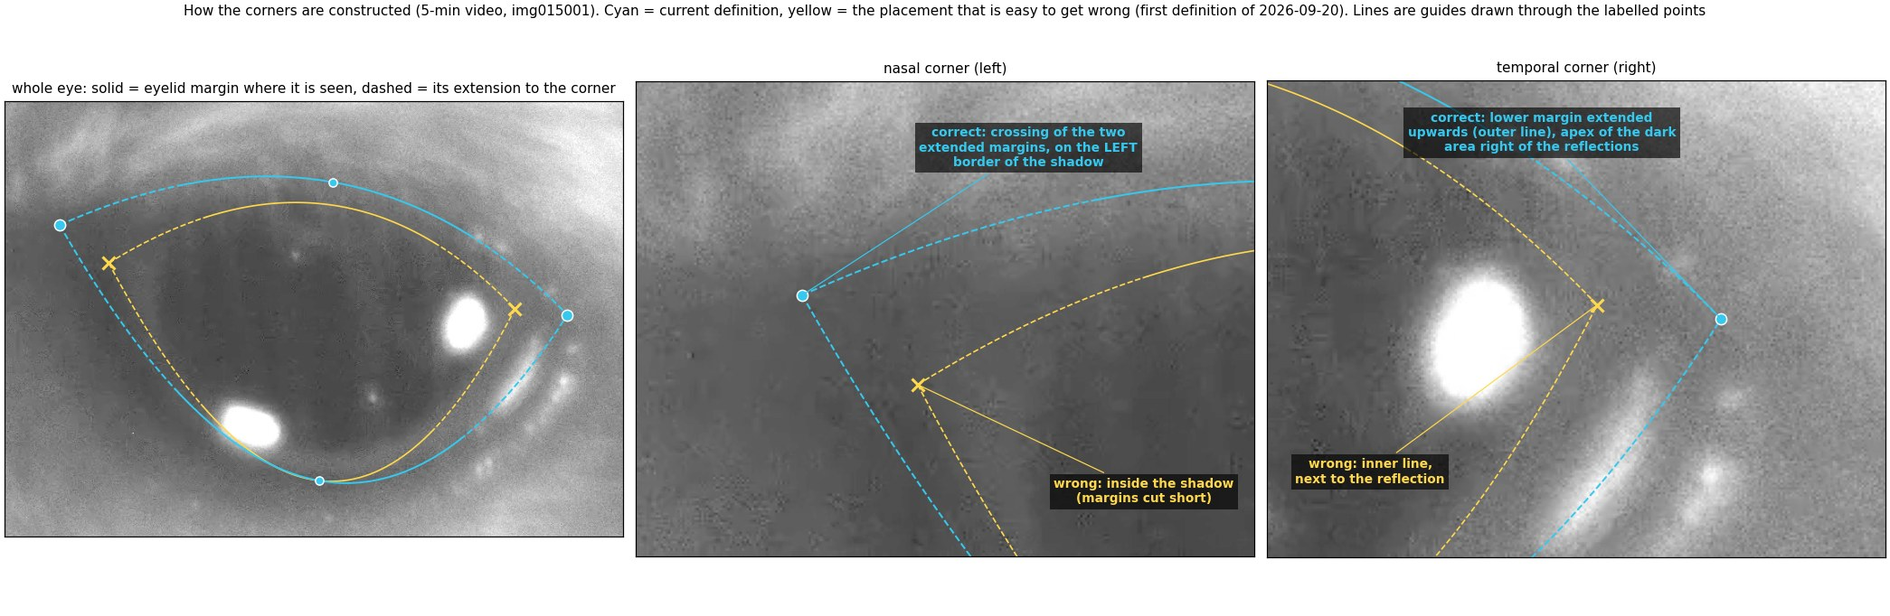
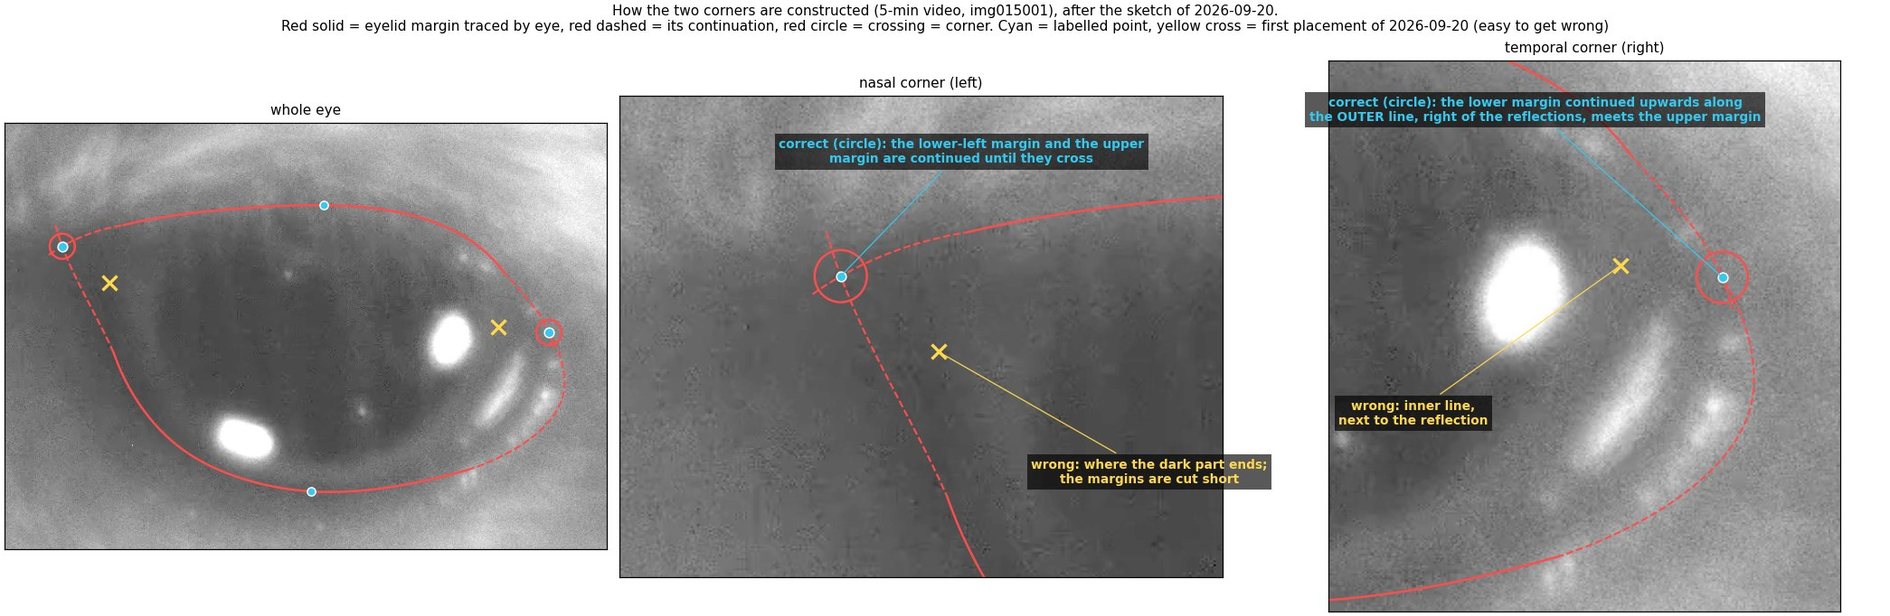
Keypoint definitions: corner construction figure redrawn after the 2026-09-20 sketch; summary page step 8 now gives the definitions, example figures and the measured shifts (corners and upper eyelid also moved on 2026-09-20)
Claude-Session: https://claude.ai/code/session_017MK5SWBFFQAu8ejFk1z7fh

diff --git a/report/index.html b/report/index.html
@@ -66,7 +66,7 @@ code{font-family:var(--mono);font-size:.9em}
 
 <header>
   <h1><span lang="zh">小鼠眼睛关键点追踪：做了什么，结果是什么</span><span lang="en">Mouse eye keypoint tracking: what was done and what came out</span></h1>
-  <p class="muted small">Zhiheng Li (University of Minnesota), Kaiwen Sheng (Stanford) · <span lang="zh">页面生成时间</span><span lang="en">page built</span> 2026-10-03 22:51 · <a href="https://github.com/ZhihengLi0/mouse-behavior-tracking">GitHub: ZhihengLi0/mouse-behavior-tracking</a></p>
+  <p class="muted small">Zhiheng Li (University of Minnesota), Kaiwen Sheng (Stanford) · <span lang="zh">页面生成时间</span><span lang="en">page built</span> 2026-10-03 23:24 · <a href="https://github.com/ZhihengLi0/mouse-behavior-tracking">GitHub: ZhihengLi0/mouse-behavior-tracking</a></p>
 
   <div class="text" lang="zh">
     <p><b>任务：</b>用 DeepLabCut 在小鼠眼睛视频的每一帧上找 8 个点：瞳孔上、下、左、右，上眼睑、下眼睑，鼻侧眼角、颞侧眼角。由这 8 个点得到瞳孔大小、眼睛睁开程度和眨眼，之后与脑记录对齐。</p>
@@ -83,7 +83,7 @@ code{font-family:var(--mono);font-size:.9em}
       <li><b>瞳孔面积怎么算？</b>在这个标准下上点落在眼睑边上，所以只用左、右、下三个点（第 6 步）。</li>
     </ol>
     <h3>中间的逻辑：为什么换了标准还沿用 ResNet-50 和 batch 2</h3>
-    <p>9 月 20 日起明确了瞳孔四个点的标法：把瞳孔看成椭圆，四个点是椭圆的四个端点。定义真正改变的只有瞳孔上点：从“看得见的瞳孔的最高处”改为“椭圆真实的最高点”。瞳孔下、左、右三个点原来就标在瞳孔边缘，这次只是明确为椭圆的端点；实际位置有小的调整（旧标注里左点比右点高约 32 px，新标法下左右两点在椭圆的同一条轴上）。上眼睑、下眼睑、鼻侧眼角、颞侧眼角的标法没有变。图像、任务和训练方式也都没有变。batch size 和模型的选择取决于图像和训练方式，不取决于瞳孔上点标在哪里，所以我们认为这两项选择不受影响，继续使用 ResNet-50 和 batch 2。这是一个判断，没有在新标准下重新比较过 batch size 和模型。</p>
+    <p>9 月 20 日起明确了瞳孔四个点的标法：把瞳孔看成椭圆，四个点是椭圆的四个端点。定义真正改变的只有瞳孔上点：从“看得见的瞳孔的最高处”改为“椭圆真实的最高点”。瞳孔下、左、右三个点原来就标在瞳孔边缘，这次明确为椭圆的端点，位置移动约 14 px。同一天还明确了两个眼角的标法（上下睑缘延长线的交点，取外侧），两个眼角向外移动 40–56 px，上眼睑点随之上移约 17 px，下眼睑点不变。详见第 8 步。图像、任务和训练方式都没有变。batch size 和模型的选择取决于图像和训练方式，不取决于点标在哪里，所以我们认为这两项选择不受影响，继续使用 ResNet-50 和 batch 2。这是一个判断，没有在新标准下重新比较过 batch size 和模型。</p>
     <h3>第二阶段的结论（第 8–12 步）</h3>
     <p>前提：把瞳孔看成椭圆，上点标在椭圆真实的最高点；被眼睑挡住时，由标注的人按椭圆估计它的位置。</p>
     <ol>
@@ -111,7 +111,7 @@ code{font-family:var(--mono);font-size:.9em}
       <li><b>How to compute the pupil area?</b> Under this standard the top point sits on the lid, so only left, right and bottom are used (step 6).</li>
     </ol>
     <h3>The logic in between: why ResNet-50 and batch 2 were kept after the standard changed</h3>
-    <p>From 2026-09-20 the way the four pupil points are labeled was made explicit: the pupil is treated as an ellipse and the four points are its four endpoints. Only the definition of pupil top really changed: from "the highest point of the visible pupil" to "the true top of the ellipse". Pupil bottom, left and right were already placed on the pupil edge and were only made explicit as ellipse endpoints; their positions were adjusted slightly (in the old labels the left point sat about 32 px higher than the right one; now both lie on the same axis of the ellipse). The labeling of the upper eyelid, lower eyelid, nasal corner and temporal corner did not change. The images, the task and the training procedure did not change either. The choice of batch size and model depends on the images and the training procedure, not on where the pupil-top point is placed, so we consider both choices unaffected and keep ResNet-50 with batch 2. This is a judgment; batch size and model were not compared again under the new standard.</p>
+    <p>From 2026-09-20 the way the four pupil points are labeled was made explicit: the pupil is treated as an ellipse and the four points are its four endpoints. Only the definition of pupil top really changed: from "the highest point of the visible pupil" to "the true top of the ellipse". Pupil bottom, left and right were already placed on the pupil edge and were made explicit as ellipse endpoints, moving by about 14 px. On the same day the placement of the two corners was made explicit as well (the crossing of the continued upper and lower eyelid margins, on the outer side): the corners moved outwards by 40–56 px, the upper-eyelid point moved up by about 17 px with them, and the lower-eyelid point did not move. Details in step 8. The images, the task and the training procedure did not change. The choice of batch size and model depends on the images and the training procedure, not on where the points are placed, so we consider both choices unaffected and keep ResNet-50 with batch 2. This is a judgment; batch size and model were not compared again under the new standard.</p>
     <h3>Conclusions of phase 2 (steps 8–12)</h3>
     <p>Premise: the pupil is treated as an ellipse and pupil top is placed at the true top of that ellipse; where the eyelid hides it, the labeler estimates its position from the ellipse.</p>
     <ol>
@@ -144,7 +144,7 @@ code{font-family:var(--mono);font-size:.9em}
       <li><a href="#s5"><span lang="zh">时间序列：眨眼、眼动、追踪丢失</span><span lang="en">Time series: blinks, eye movements, tracking loss</span></a></li>
       <li><a href="#s6"><span lang="zh">瞳孔面积怎么算（旧标注标准）</span><span lang="en">Pupil area (old label standard)</span></a></li>
       <li><a href="#s7"><span lang="zh">换一只新老鼠</span><span lang="en">A new mouse</span></a></li>
-      <li><a href="#s8"><span lang="zh">新标注标准：瞳孔按椭圆标</span><span lang="en">New label standard: the pupil as an ellipse</span></a></li>
+      <li><a href="#s8"><span lang="zh">点位定义的明确：瞳孔按椭圆标，眼角取延长线交点</span><span lang="en">Keypoint definitions made explicit</span></a></li>
       <li><a href="#s9"><span lang="zh">主线：每个新视频要标多少帧</span><span lang="en">Main line: labels needed per new video</span></a></li>
       <li><a href="#s10"><span lang="zh">只标 5 帧或 10 帧够不够</span><span lang="en">Are 5 or 10 labels enough</span></a></li>
       <li><a href="#s11"><span lang="zh">加入新视频会不会让旧视频变差</span><span lang="en">Do new videos hurt old ones</span></a></li>
@@ -274,16 +274,63 @@ code{font-family:var(--mono);font-size:.9em}
 
 <!-- 8 -->
 <section id="s8">
-  <h2><span class="no">8</span><span lang="zh">新标注标准（9 月 20 日起）：瞳孔按椭圆标</span><span lang="en">New label standard (from 2026-09-20): the pupil as an ellipse</span></h2>
-  <p class="text" lang="zh"><span class="tag">做了什么：</span>明确了瞳孔四个点的标法：把瞳孔看成一个椭圆，上、下、左、右四个点是椭圆的四个端点；被眼睑挡住的部分按椭圆补全，点标在推断出的位置上。定义改变的只有上点（原来标在看得见的瞳孔的最高处）；下、左、右三个点只是明确为椭圆端点；眼睑和眼角的四个点标法不变。9 月 26 日补充一条约定：瞳孔边缘出现两层轮廓时，标左边那层；黑色核心外面的一圈亮带算作瞳孔。之前的全部视频按新标准重新标注，从这一步起所有模型和数字都是新标准。</p>
-  <p class="text" lang="en"><span class="tag">What was done:</span>The labeling of the four pupil points was made explicit: the pupil is treated as an ellipse and top, bottom, left, right are its four endpoints; where the lid hides the pupil, the ellipse is completed and the point is placed at the inferred position. Only the definition of the top point changed (it used to be the highest point of the visible pupil); bottom, left and right were only made explicit as ellipse endpoints; the four eyelid and corner points are labeled as before. A convention added on 2026-09-26: where the pupil edge shows a double contour, the left one is labeled, and the bright band around the dark core counts as pupil. All earlier videos were relabeled; from here on every model and number uses the new standard.</p>
+  <h2><span class="no">8</span><span lang="zh">点位定义的明确（9 月 20 日起）：瞳孔按椭圆标，眼角取睑缘延长线的交点</span><span lang="en">Keypoint definitions made explicit (from 2026-09-20): pupil as an ellipse, corners at the crossing of the eyelid margins</span></h2>
+  <div class="text" lang="zh">
+    <p><span class="tag">做了什么：</span>把 8 个点各自标在哪里写清楚，并按新的写法把之前的视频全部重新标注。从这一步起所有模型和数字都用这套定义。完整的定义、例图和容易标错的地方在仓库的 <code>keypoint_definitions/</code> 文件夹里。</p>
+    <ul>
+      <li><b>瞳孔上、下、左、右：</b>把瞳孔看作一个椭圆，四个点是椭圆两条轴的四个端点。被上眼睑或毛挡住的部分按椭圆补全，所以上点常常在眼睑下面。瞳孔边界取变暗区域的外缘；边界出现两层轮廓时取左边那层（9 月 26 日）；黑色核心外面较亮的一圈也算瞳孔（9 月 29 日）。</li>
+      <li><b>上眼睑、下眼睑：</b>眼皮和眼球的分界线叫睑缘。上眼睑点是上睑缘的中点，下眼睑点是下睑缘的中点。眨眼时也要标。</li>
+      <li><b>左眼角（鼻侧，内眦）：</b>把左下方的睑缘和上睑缘各自延长，取两条延长线的交点；延长线取外侧、没有阴影的那条边。</li>
+      <li><b>右眼角（颞侧，外眦）：</b>右侧有几条反光亮带。把下睑缘沿外层那条线向上延伸，与上睑缘相交的点就是眼角，它在反光的右侧。不标在反光上，也不标在紧挨反光的内层线上。</li>
+    </ul>
+  </div>
+  <div class="text" lang="en">
+    <p><span class="tag">What was done:</span>Where each of the 8 points is placed was written down, and all earlier videos were relabeled accordingly. From this step on every model and number uses these definitions. The full definitions, example figures and the common mistakes are in the folder <code>keypoint_definitions/</code> of the repository.</p>
+    <ul>
+      <li><b>Pupil top, bottom, left, right:</b> the pupil is treated as an ellipse and the four points are the ends of its two axes. Parts hidden by the upper eyelid or by fur are completed with the ellipse, so the top point often lies under the eyelid. The pupil boundary is the outer edge of the darkened region; where the edge looks doubled the left contour is used (2026-09-26); the brighter band around the dark core counts as pupil (2026-09-29).</li>
+      <li><b>Upper and lower eyelid:</b> the line between the eyelid skin and the eyeball is the eyelid margin. The upper-eyelid point is the midpoint of the upper margin, the lower-eyelid point the midpoint of the lower margin. Both are labeled during blinks too.</li>
+      <li><b>Left corner (nasal, medial canthus):</b> the lower-left margin and the upper margin are each continued, and the corner is where the two continuations cross; the continuation follows the outer edge, the one without the shadow.</li>
+      <li><b>Right corner (temporal, lateral canthus):</b> there are several bright reflections on this side. The lower margin is continued upwards along the outer line until it meets the upper margin; that point is the corner, and it lies to the right of the reflections. It is not placed on a reflection or on the inner line next to it.</li>
+    </ul>
+  </div>
   <figure>
-    <div class="figbox narrow"><img src="assets/label_standard.jpg" alt="One labeled frame under the new standard"></div>
-    <figcaption lang="zh"><span class="tag">怎么看：</span>一帧人工标注。红点是瞳孔的四个点，红线是过这四个点的椭圆；蓝点是上下眼睑和两个眼角。</figcaption>
-    <figcaption lang="en"><span class="tag">How to read:</span>One human-labeled frame. Red dots are the four pupil points and the red line is the ellipse through them; blue dots are the two eyelids and the two eye corners.</figcaption>
+    <div class="figbox"><img src="assets/kp_all_keypoints.jpg" alt="All eight keypoints on three mice"></div>
+    <figcaption lang="zh"><span class="tag">怎么看：</span>三只老鼠各一帧人工标注。红点是瞳孔的四个点，红线是过这四个点的椭圆；青色点是上下眼睑和两个眼角。图像为了看清做了提亮。</figcaption>
+    <figcaption lang="en"><span class="tag">How to read:</span>One human-labeled frame of each of the three mice. Red dots are the four pupil points and the red line is the ellipse through them; cyan dots are the two eyelid points and the two corners. The frames are brightened for display.</figcaption>
   </figure>
-  <p class="concl" lang="zh"><span class="tag">结论：</span>新标准下四个点都有明确的几何含义，面积可以直接由四个点算出。模型和 batch size 沿用第 2、3 步的选择（ResNet-50，batch 2）：改的只是点标在哪里，图像和训练方式没有变，所以没有重新比较。旧标准（第 1–7 步）的误差数字不能和新标准（第 9 步起）的数字直接比较。</p>
-  <p class="concl" lang="en"><span class="tag">Conclusion:</span>Under the new standard all four points have a clear geometric meaning and the area follows directly from them. Model and batch size are carried over from steps 2 and 3 (ResNet-50, batch 2): only where the points are placed changed, not the images or the training procedure, so they were not compared again. Error numbers under the old standard (steps 1–7) cannot be compared directly with those under the new one (from step 9).</p>
+  <figure>
+    <div class="figbox"><img src="assets/kp_construction_pupil.jpg" alt="How the pupil points are constructed"></div>
+    <figcaption lang="zh"><span class="tag">怎么看：</span>瞳孔四个点怎么来。红色椭圆盖住整个瞳孔，红色虚线是它的两条轴，四个点是轴的端点。黄色叉和黄色虚线是 9 月 20 日之前的标法：沿着看得见的瞳孔边缘标，上点停在眼睑边上。</figcaption>
+    <figcaption lang="en"><span class="tag">How to read:</span>How the four pupil points are obtained. The red ellipse covers the whole pupil, the dashed red lines are its two axes, and the four points are the ends of the axes. Yellow crosses and the dashed yellow outline show the placement before 2026-09-20: along the visible pupil edge, with the top point stopping at the eyelid.</figcaption>
+  </figure>
+  <figure>
+    <div class="figbox"><img src="assets/kp_construction_corners.jpg" alt="How the two corners are constructed"></div>
+    <figcaption lang="zh"><span class="tag">怎么看：</span>两个眼角怎么来，画法照 9 月 20 日讨论时的手绘图。红色实线是沿图像描出的睑缘，红色虚线是它的延长线，红圈是交点，也就是眼角；青色点是实际标注的位置。黄色叉是当天第一次的标法，也是容易标错的位置：左边标在深色部分结束的地方，右边标在紧挨反光的内层线上。</figcaption>
+    <figcaption lang="en"><span class="tag">How to read:</span>How the two corners are obtained, drawn after the hand sketch used in the discussion of 2026-09-20. Solid red = eyelid margin traced on the image, dashed red = its continuation, red circle = the crossing, which is the corner; cyan = the labeled point. Yellow crosses are the first placement of that day and the easy mistake: on the left, where the dark part ends; on the right, on the inner line next to the reflection.</figcaption>
+  </figure>
+  <p class="text" lang="zh">定义明确前后，同一批帧上各个点移动了多少（<code>keypoint_definitions/results/label_changes.csv</code>）：</p>
+  <p class="text" lang="en">How far each point moved on the same frames when the definitions were made explicit (<code>keypoint_definitions/results/label_changes.csv</code>):</p>
+  <div class="tablebox">
+    <table>
+      <thead><tr>
+        <th><span lang="zh">点</span><span lang="en">point</span></th>
+        <th><span lang="zh">位移中位数</span><span lang="en">median shift</span></th>
+        <th><span lang="zh">性质</span><span lang="en">what happened</span></th>
+      </tr></thead>
+      <tbody>
+        <tr><td><span lang="zh">瞳孔上点</span><span lang="en">pupil top</span></td><td>52 px</td><td><span lang="zh">定义改变：从看得见的瞳孔的最高处，改为椭圆的顶端</span><span lang="en">definition changed: from the top of the visible pupil to the top of the ellipse</span></td></tr>
+        <tr><td><span lang="zh">瞳孔下、左、右</span><span lang="en">pupil bottom, left, right</span></td><td><span lang="zh">约 14 px</span><span lang="en">about 14 px</span></td><td><span lang="zh">明确为椭圆轴的端点</span><span lang="en">made explicit as the ends of the ellipse axes</span></td></tr>
+        <tr><td><span lang="zh">左眼角</span><span lang="en">left (nasal) corner</span></td><td>40 px</td><td><span lang="zh">明确为两条睑缘延长线的交点，向外移</span><span lang="en">made explicit as the crossing of the two continued margins; moved outwards</span></td></tr>
+        <tr><td><span lang="zh">右眼角</span><span lang="en">right (temporal) corner</span></td><td>56 px</td><td><span lang="zh">明确为外层线上的交点，向外移</span><span lang="en">made explicit as the crossing on the outer line; moved outwards</span></td></tr>
+        <tr><td><span lang="zh">上眼睑点</span><span lang="en">upper eyelid</span></td><td>17 px</td><td><span lang="zh">随眼角的明确上移到睑缘（90 帧里 62 帧有移动）</span><span lang="en">moved up onto the margin together with the corners (62 of 90 frames moved)</span></td></tr>
+        <tr><td><span lang="zh">下眼睑点</span><span lang="en">lower eyelid</span></td><td>0 px</td><td><span lang="zh">不变</span><span lang="en">unchanged</span></td></tr>
+      </tbody>
+    </table>
+  </div>
+  <p class="text small muted" lang="zh">瞳孔四个点的数字来自 Pluto 2025-10-31 的 40 帧（旧标法对椭圆标法）；眼角和眼睑的数字来自 5 分钟视频的 90 帧（当天第一次的眼角标法对最终标法）。9 月 26 日“两层轮廓取左边”只让瞳孔点移动几个像素；9 月 29 日的亮带裁定没有改任何标注。</p>
+  <p class="text small muted" lang="en">The numbers for the four pupil points come from 40 frames of Pluto 2025-10-31 (old placement vs ellipse placement); those for the corners and eyelids from 90 frames of the 5-minute video (first corner placement of that day vs the final one). The 2026-09-26 convention (left contour) moved pupil points by a few pixels only; the 2026-09-29 decision on the bright band changed no labels.</p>
+  <p class="concl" lang="zh"><span class="tag">结论：</span>定义真正改变的是瞳孔上点；其余的点是把标法明确下来，其中两个眼角的位置变化最大。眼睑和眼角的四个点只用来判断眨眼，所以选每一帧都找得到的稳定位置。模型和 batch size 沿用第 2、3 步的选择（ResNet-50，batch 2）：变的是点标在哪里，图像和训练方式没有变，所以没有重新比较。第 1–7 步的误差数字不能和第 9 步起的数字直接比较。</p>
+  <p class="concl" lang="en"><span class="tag">Conclusion:</span>The definition that really changed is pupil top; for the other points the placement was made explicit, and the two corners moved the most. The four eyelid and corner points only serve to detect blinks, so a stable position that can be found in every frame is preferred. Model and batch size are carried over from steps 2 and 3 (ResNet-50, batch 2): where the points are placed changed, the images and the training procedure did not, so they were not compared again. Error numbers of steps 1–7 cannot be compared directly with those from step 9 on.</p>
 </section>
 
 <!-- 9 -->

diff --git a/report/template.html b/report/template.html
@@ -83,7 +83,7 @@ code{font-family:var(--mono);font-size:.9em}
       <li><b>瞳孔面积怎么算？</b>在这个标准下上点落在眼睑边上，所以只用左、右、下三个点（第 6 步）。</li>
     </ol>
     <h3>中间的逻辑：为什么换了标准还沿用 ResNet-50 和 batch 2</h3>
-    <p>9 月 20 日起明确了瞳孔四个点的标法：把瞳孔看成椭圆，四个点是椭圆的四个端点。定义真正改变的只有瞳孔上点：从“看得见的瞳孔的最高处”改为“椭圆真实的最高点”。瞳孔下、左、右三个点原来就标在瞳孔边缘，这次只是明确为椭圆的端点；实际位置有小的调整（旧标注里左点比右点高约 32 px，新标法下左右两点在椭圆的同一条轴上）。上眼睑、下眼睑、鼻侧眼角、颞侧眼角的标法没有变。图像、任务和训练方式也都没有变。batch size 和模型的选择取决于图像和训练方式，不取决于瞳孔上点标在哪里，所以我们认为这两项选择不受影响，继续使用 ResNet-50 和 batch 2。这是一个判断，没有在新标准下重新比较过 batch size 和模型。</p>
+    <p>9 月 20 日起明确了瞳孔四个点的标法：把瞳孔看成椭圆，四个点是椭圆的四个端点。定义真正改变的只有瞳孔上点：从“看得见的瞳孔的最高处”改为“椭圆真实的最高点”。瞳孔下、左、右三个点原来就标在瞳孔边缘，这次明确为椭圆的端点，位置移动约 14 px。同一天还明确了两个眼角的标法（上下睑缘延长线的交点，取外侧），两个眼角向外移动 40–56 px，上眼睑点随之上移约 17 px，下眼睑点不变。详见第 8 步。图像、任务和训练方式都没有变。batch size 和模型的选择取决于图像和训练方式，不取决于点标在哪里，所以我们认为这两项选择不受影响，继续使用 ResNet-50 和 batch 2。这是一个判断，没有在新标准下重新比较过 batch size 和模型。</p>
     <h3>第二阶段的结论（第 8–12 步）</h3>
     <p>前提：把瞳孔看成椭圆，上点标在椭圆真实的最高点；被眼睑挡住时，由标注的人按椭圆估计它的位置。</p>
     <ol>
@@ -111,7 +111,7 @@ code{font-family:var(--mono);font-size:.9em}
       <li><b>How to compute the pupil area?</b> Under this standard the top point sits on the lid, so only left, right and bottom are used (step 6).</li>
     </ol>
     <h3>The logic in between: why ResNet-50 and batch 2 were kept after the standard changed</h3>
-    <p>From 2026-09-20 the way the four pupil points are labeled was made explicit: the pupil is treated as an ellipse and the four points are its four endpoints. Only the definition of pupil top really changed: from "the highest point of the visible pupil" to "the true top of the ellipse". Pupil bottom, left and right were already placed on the pupil edge and were only made explicit as ellipse endpoints; their positions were adjusted slightly (in the old labels the left point sat about 32 px higher than the right one; now both lie on the same axis of the ellipse). The labeling of the upper eyelid, lower eyelid, nasal corner and temporal corner did not change. The images, the task and the training procedure did not change either. The choice of batch size and model depends on the images and the training procedure, not on where the pupil-top point is placed, so we consider both choices unaffected and keep ResNet-50 with batch 2. This is a judgment; batch size and model were not compared again under the new standard.</p>
+    <p>From 2026-09-20 the way the four pupil points are labeled was made explicit: the pupil is treated as an ellipse and the four points are its four endpoints. Only the definition of pupil top really changed: from "the highest point of the visible pupil" to "the true top of the ellipse". Pupil bottom, left and right were already placed on the pupil edge and were made explicit as ellipse endpoints, moving by about 14 px. On the same day the placement of the two corners was made explicit as well (the crossing of the continued upper and lower eyelid margins, on the outer side): the corners moved outwards by 40–56 px, the upper-eyelid point moved up by about 17 px with them, and the lower-eyelid point did not move. Details in step 8. The images, the task and the training procedure did not change. The choice of batch size and model depends on the images and the training procedure, not on where the points are placed, so we consider both choices unaffected and keep ResNet-50 with batch 2. This is a judgment; batch size and model were not compared again under the new standard.</p>
     <h3>Conclusions of phase 2 (steps 8–12)</h3>
     <p>Premise: the pupil is treated as an ellipse and pupil top is placed at the true top of that ellipse; where the eyelid hides it, the labeler estimates its position from the ellipse.</p>
     <ol>
@@ -144,7 +144,7 @@ code{font-family:var(--mono);font-size:.9em}
       <li><a href="#s5"><span lang="zh">时间序列：眨眼、眼动、追踪丢失</span><span lang="en">Time series: blinks, eye movements, tracking loss</span></a></li>
       <li><a href="#s6"><span lang="zh">瞳孔面积怎么算（旧标注标准）</span><span lang="en">Pupil area (old label standard)</span></a></li>
       <li><a href="#s7"><span lang="zh">换一只新老鼠</span><span lang="en">A new mouse</span></a></li>
-      <li><a href="#s8"><span lang="zh">新标注标准：瞳孔按椭圆标</span><span lang="en">New label standard: the pupil as an ellipse</span></a></li>
+      <li><a href="#s8"><span lang="zh">点位定义的明确：瞳孔按椭圆标，眼角取延长线交点</span><span lang="en">Keypoint definitions made explicit</span></a></li>
       <li><a href="#s9"><span lang="zh">主线：每个新视频要标多少帧</span><span lang="en">Main line: labels needed per new video</span></a></li>
       <li><a href="#s10"><span lang="zh">只标 5 帧或 10 帧够不够</span><span lang="en">Are 5 or 10 labels enough</span></a></li>
       <li><a href="#s11"><span lang="zh">加入新视频会不会让旧视频变差</span><span lang="en">Do new videos hurt old ones</span></a></li>
@@ -274,16 +274,63 @@ code{font-family:var(--mono);font-size:.9em}
 
 <!-- 8 -->
 <section id="s8">
-  <h2><span class="no">8</span><span lang="zh">新标注标准（9 月 20 日起）：瞳孔按椭圆标</span><span lang="en">New label standard (from 2026-09-20): the pupil as an ellipse</span></h2>
-  <p class="text" lang="zh"><span class="tag">做了什么：</span>明确了瞳孔四个点的标法：把瞳孔看成一个椭圆，上、下、左、右四个点是椭圆的四个端点；被眼睑挡住的部分按椭圆补全，点标在推断出的位置上。定义改变的只有上点（原来标在看得见的瞳孔的最高处）；下、左、右三个点只是明确为椭圆端点；眼睑和眼角的四个点标法不变。9 月 26 日补充一条约定：瞳孔边缘出现两层轮廓时，标左边那层；黑色核心外面的一圈亮带算作瞳孔。之前的全部视频按新标准重新标注，从这一步起所有模型和数字都是新标准。</p>
-  <p class="text" lang="en"><span class="tag">What was done:</span>The labeling of the four pupil points was made explicit: the pupil is treated as an ellipse and top, bottom, left, right are its four endpoints; where the lid hides the pupil, the ellipse is completed and the point is placed at the inferred position. Only the definition of the top point changed (it used to be the highest point of the visible pupil); bottom, left and right were only made explicit as ellipse endpoints; the four eyelid and corner points are labeled as before. A convention added on 2026-09-26: where the pupil edge shows a double contour, the left one is labeled, and the bright band around the dark core counts as pupil. All earlier videos were relabeled; from here on every model and number uses the new standard.</p>
+  <h2><span class="no">8</span><span lang="zh">点位定义的明确（9 月 20 日起）：瞳孔按椭圆标，眼角取睑缘延长线的交点</span><span lang="en">Keypoint definitions made explicit (from 2026-09-20): pupil as an ellipse, corners at the crossing of the eyelid margins</span></h2>
+  <div class="text" lang="zh">
+    <p><span class="tag">做了什么：</span>把 8 个点各自标在哪里写清楚，并按新的写法把之前的视频全部重新标注。从这一步起所有模型和数字都用这套定义。完整的定义、例图和容易标错的地方在仓库的 <code>keypoint_definitions/</code> 文件夹里。</p>
+    <ul>
+      <li><b>瞳孔上、下、左、右：</b>把瞳孔看作一个椭圆，四个点是椭圆两条轴的四个端点。被上眼睑或毛挡住的部分按椭圆补全，所以上点常常在眼睑下面。瞳孔边界取变暗区域的外缘；边界出现两层轮廓时取左边那层（9 月 26 日）；黑色核心外面较亮的一圈也算瞳孔（9 月 29 日）。</li>
+      <li><b>上眼睑、下眼睑：</b>眼皮和眼球的分界线叫睑缘。上眼睑点是上睑缘的中点，下眼睑点是下睑缘的中点。眨眼时也要标。</li>
+      <li><b>左眼角（鼻侧，内眦）：</b>把左下方的睑缘和上睑缘各自延长，取两条延长线的交点；延长线取外侧、没有阴影的那条边。</li>
+      <li><b>右眼角（颞侧，外眦）：</b>右侧有几条反光亮带。把下睑缘沿外层那条线向上延伸，与上睑缘相交的点就是眼角，它在反光的右侧。不标在反光上，也不标在紧挨反光的内层线上。</li>
+    </ul>
+  </div>
+  <div class="text" lang="en">
+    <p><span class="tag">What was done:</span>Where each of the 8 points is placed was written down, and all earlier videos were relabeled accordingly. From this step on every model and number uses these definitions. The full definitions, example figures and the common mistakes are in the folder <code>keypoint_definitions/</code> of the repository.</p>
+    <ul>
+      <li><b>Pupil top, bottom, left, right:</b> the pupil is treated as an ellipse and the four points are the ends of its two axes. Parts hidden by the upper eyelid or by fur are completed with the ellipse, so the top point often lies under the eyelid. The pupil boundary is the outer edge of the darkened region; where the edge looks doubled the left contour is used (2026-09-26); the brighter band around the dark core counts as pupil (2026-09-29).</li>
+      <li><b>Upper and lower eyelid:</b> the line between the eyelid skin and the eyeball is the eyelid margin. The upper-eyelid point is the midpoint of the upper margin, the lower-eyelid point the midpoint of the lower margin. Both are labeled during blinks too.</li>
+      <li><b>Left corner (nasal, medial canthus):</b> the lower-left margin and the upper margin are each continued, and the corner is where the two continuations cross; the continuation follows the outer edge, the one without the shadow.</li>
+      <li><b>Right corner (temporal, lateral canthus):</b> there are several bright reflections on this side. The lower margin is continued upwards along the outer line until it meets the upper margin; that point is the corner, and it lies to the right of the reflections. It is not placed on a reflection or on the inner line next to it.</li>
+    </ul>
+  </div>
   <figure>
-    <div class="figbox narrow"><img src="assets/label_standard.jpg" alt="One labeled frame under the new standard"></div>
-    <figcaption lang="zh"><span class="tag">怎么看：</span>一帧人工标注。红点是瞳孔的四个点，红线是过这四个点的椭圆；蓝点是上下眼睑和两个眼角。</figcaption>
-    <figcaption lang="en"><span class="tag">How to read:</span>One human-labeled frame. Red dots are the four pupil points and the red line is the ellipse through them; blue dots are the two eyelids and the two eye corners.</figcaption>
+    <div class="figbox"><img src="assets/kp_all_keypoints.jpg" alt="All eight keypoints on three mice"></div>
+    <figcaption lang="zh"><span class="tag">怎么看：</span>三只老鼠各一帧人工标注。红点是瞳孔的四个点，红线是过这四个点的椭圆；青色点是上下眼睑和两个眼角。图像为了看清做了提亮。</figcaption>
+    <figcaption lang="en"><span class="tag">How to read:</span>One human-labeled frame of each of the three mice. Red dots are the four pupil points and the red line is the ellipse through them; cyan dots are the two eyelid points and the two corners. The frames are brightened for display.</figcaption>
   </figure>
-  <p class="concl" lang="zh"><span class="tag">结论：</span>新标准下四个点都有明确的几何含义，面积可以直接由四个点算出。模型和 batch size 沿用第 2、3 步的选择（ResNet-50，batch 2）：改的只是点标在哪里，图像和训练方式没有变，所以没有重新比较。旧标准（第 1–7 步）的误差数字不能和新标准（第 9 步起）的数字直接比较。</p>
-  <p class="concl" lang="en"><span class="tag">Conclusion:</span>Under the new standard all four points have a clear geometric meaning and the area follows directly from them. Model and batch size are carried over from steps 2 and 3 (ResNet-50, batch 2): only where the points are placed changed, not the images or the training procedure, so they were not compared again. Error numbers under the old standard (steps 1–7) cannot be compared directly with those under the new one (from step 9).</p>
+  <figure>
+    <div class="figbox"><img src="assets/kp_construction_pupil.jpg" alt="How the pupil points are constructed"></div>
+    <figcaption lang="zh"><span class="tag">怎么看：</span>瞳孔四个点怎么来。红色椭圆盖住整个瞳孔，红色虚线是它的两条轴，四个点是轴的端点。黄色叉和黄色虚线是 9 月 20 日之前的标法：沿着看得见的瞳孔边缘标，上点停在眼睑边上。</figcaption>
+    <figcaption lang="en"><span class="tag">How to read:</span>How the four pupil points are obtained. The red ellipse covers the whole pupil, the dashed red lines are its two axes, and the four points are the ends of the axes. Yellow crosses and the dashed yellow outline show the placement before 2026-09-20: along the visible pupil edge, with the top point stopping at the eyelid.</figcaption>
+  </figure>
+  <figure>
+    <div class="figbox"><img src="assets/kp_construction_corners.jpg" alt="How the two corners are constructed"></div>
+    <figcaption lang="zh"><span class="tag">怎么看：</span>两个眼角怎么来，画法照 9 月 20 日讨论时的手绘图。红色实线是沿图像描出的睑缘，红色虚线是它的延长线，红圈是交点，也就是眼角；青色点是实际标注的位置。黄色叉是当天第一次的标法，也是容易标错的位置：左边标在深色部分结束的地方，右边标在紧挨反光的内层线上。</figcaption>
+    <figcaption lang="en"><span class="tag">How to read:</span>How the two corners are obtained, drawn after the hand sketch used in the discussion of 2026-09-20. Solid red = eyelid margin traced on the image, dashed red = its continuation, red circle = the crossing, which is the corner; cyan = the labeled point. Yellow crosses are the first placement of that day and the easy mistake: on the left, where the dark part ends; on the right, on the inner line next to the reflection.</figcaption>
+  </figure>
+  <p class="text" lang="zh">定义明确前后，同一批帧上各个点移动了多少（<code>keypoint_definitions/results/label_changes.csv</code>）：</p>
+  <p class="text" lang="en">How far each point moved on the same frames when the definitions were made explicit (<code>keypoint_definitions/results/label_changes.csv</code>):</p>
+  <div class="tablebox">
+    <table>
+      <thead><tr>
+        <th><span lang="zh">点</span><span lang="en">point</span></th>
+        <th><span lang="zh">位移中位数</span><span lang="en">median shift</span></th>
+        <th><span lang="zh">性质</span><span lang="en">what happened</span></th>
+      </tr></thead>
+      <tbody>
+        <tr><td><span lang="zh">瞳孔上点</span><span lang="en">pupil top</span></td><td>52 px</td><td><span lang="zh">定义改变：从看得见的瞳孔的最高处，改为椭圆的顶端</span><span lang="en">definition changed: from the top of the visible pupil to the top of the ellipse</span></td></tr>
+        <tr><td><span lang="zh">瞳孔下、左、右</span><span lang="en">pupil bottom, left, right</span></td><td><span lang="zh">约 14 px</span><span lang="en">about 14 px</span></td><td><span lang="zh">明确为椭圆轴的端点</span><span lang="en">made explicit as the ends of the ellipse axes</span></td></tr>
+        <tr><td><span lang="zh">左眼角</span><span lang="en">left (nasal) corner</span></td><td>40 px</td><td><span lang="zh">明确为两条睑缘延长线的交点，向外移</span><span lang="en">made explicit as the crossing of the two continued margins; moved outwards</span></td></tr>
+        <tr><td><span lang="zh">右眼角</span><span lang="en">right (temporal) corner</span></td><td>56 px</td><td><span lang="zh">明确为外层线上的交点，向外移</span><span lang="en">made explicit as the crossing on the outer line; moved outwards</span></td></tr>
+        <tr><td><span lang="zh">上眼睑点</span><span lang="en">upper eyelid</span></td><td>17 px</td><td><span lang="zh">随眼角的明确上移到睑缘（90 帧里 62 帧有移动）</span><span lang="en">moved up onto the margin together with the corners (62 of 90 frames moved)</span></td></tr>
+        <tr><td><span lang="zh">下眼睑点</span><span lang="en">lower eyelid</span></td><td>0 px</td><td><span lang="zh">不变</span><span lang="en">unchanged</span></td></tr>
+      </tbody>
+    </table>
+  </div>
+  <p class="text small muted" lang="zh">瞳孔四个点的数字来自 Pluto 2025-10-31 的 40 帧（旧标法对椭圆标法）；眼角和眼睑的数字来自 5 分钟视频的 90 帧（当天第一次的眼角标法对最终标法）。9 月 26 日“两层轮廓取左边”只让瞳孔点移动几个像素；9 月 29 日的亮带裁定没有改任何标注。</p>
+  <p class="text small muted" lang="en">The numbers for the four pupil points come from 40 frames of Pluto 2025-10-31 (old placement vs ellipse placement); those for the corners and eyelids from 90 frames of the 5-minute video (first corner placement of that day vs the final one). The 2026-09-26 convention (left contour) moved pupil points by a few pixels only; the 2026-09-29 decision on the bright band changed no labels.</p>
+  <p class="concl" lang="zh"><span class="tag">结论：</span>定义真正改变的是瞳孔上点；其余的点是把标法明确下来，其中两个眼角的位置变化最大。眼睑和眼角的四个点只用来判断眨眼，所以选每一帧都找得到的稳定位置。模型和 batch size 沿用第 2、3 步的选择（ResNet-50，batch 2）：变的是点标在哪里，图像和训练方式没有变，所以没有重新比较。第 1–7 步的误差数字不能和第 9 步起的数字直接比较。</p>
+  <p class="concl" lang="en"><span class="tag">Conclusion:</span>The definition that really changed is pupil top; for the other points the placement was made explicit, and the two corners moved the most. The four eyelid and corner points only serve to detect blinks, so a stable position that can be found in every frame is preferred. Model and batch size are carried over from steps 2 and 3 (ResNet-50, batch 2): where the points are placed changed, the images and the training procedure did not, so they were not compared again. Error numbers of steps 1–7 cannot be compared directly with those from step 9 on.</p>
 </section>
 
 <!-- 9 -->

diff --git a/keypoint_definitions/scripts/make_figures.py b/keypoint_definitions/scripts/make_figures.py
@@ -143,27 +143,50 @@ def note(ax, text, at, to, color):
                 bbox=dict(fc="black", ec="none", alpha=0.65, pad=3), arrowprops=dict(arrowstyle="-", color=color, lw=0.8))
 
 
+def smooth(points, n=200):
+    """Smooth curve through points picked by eye on the image (chord-length cubic spline)."""
+    from scipy.interpolate import CubicSpline
+    pts = np.array(points, float)
+    s = np.r_[0, np.cumsum(np.linalg.norm(np.diff(pts, axis=0), axis=1))]
+    return CubicSpline(s, pts)(np.linspace(0, s[-1], n)).T
+
+
+# Fig 7 follows the user's sketch sent to the advisor on 2026-09-20 (Slack): the eyelid margins are traced where they are
+# sharp (solid), continued to where they cross (dashed), and the crossing is circled. Traced by eye on this frame.
 name = "img015001.png"
 A, B = load(f"{BK}/test50").loc[name], load(new0).loc[name]
 img = bright(image(new0, name))
+n, t = xy(B, "eye_nasal_corner"), xy(B, "eye_temporal_corner")
+et, eb = xy(B, "eyelid_top"), xy(B, "eyelid_bottom")
+UPPER = [(420, 350), (480, 339), (550, 332), tuple(et), (700, 336), (765, 358), (812, 398)]      # upper margin, sharp part
+UPPER_L = [tuple(n + (-14, 9)), tuple(n), (385, 359), (420, 350)]                               # continued to the left
+UPPER_R = [(812, 398), (840, 430), tuple(t), tuple(t + (5, 16))]                                # continued to the right
+LOWER = [(410, 482), (440, 540), (480, 581), (540, 611), tuple(eb), (700, 620), (775, 603)]      # lower margin, sharp part
+LOWER_L = [tuple(n + (-7, -22)), tuple(n), (383, 428), (410, 482)]                              # continued up to the crossing
+LOWER_R = [(775, 603), (838, 572), (874, 524), (870, 484), tuple(t)]                             # outer line, right of the reflections
 fig, axes = plt.subplots(1, 3, figsize=(19, 6.2), constrained_layout=True)
 for ax in axes:
     ax.imshow(img, cmap="gray", vmin=0, vmax=255); ax.set_xticks([]); ax.set_yticks([])
-    lid_lines(ax, A, YELLOW, lw=1.1); lid_lines(ax, B, CYAN)
+    for solid in (UPPER, LOWER):
+        ax.plot(*smooth(solid), "-", color=RED, lw=1.6)
+    for dashed in (UPPER_L, UPPER_R, LOWER_L, LOWER_R):
+        ax.plot(*smooth(dashed), "--", color=RED, lw=1.4)
+    for c in (n, t):
+        ax.add_patch(plt.Circle(c, 13, fill=False, ec=RED, lw=1.6))
     for bp in ("eye_nasal_corner", "eye_temporal_corner"):
-        ax.plot(*xy(A, bp), "x", color=YELLOW, ms=9, mew=2); ax.plot(*xy(B, bp), "o", mfc=CYAN, mec="white", ms=8)
+        ax.plot(*xy(A, bp), "x", color=YELLOW, ms=10, mew=2.2); ax.plot(*xy(B, bp), "o", mfc=CYAN, mec="white", ms=7)
     for bp in ("eyelid_top", "eyelid_bottom"):
         ax.plot(*xy(B, bp), "o", mfc=CYAN, mec="white", ms=6)
-crop(axes[0], B, pad=55); axes[0].set_title("whole eye: solid = eyelid margin where it is seen, dashed = its extension to the corner", fontsize=10)
-n, t = xy(B, "eye_nasal_corner"), xy(B, "eye_temporal_corner")
-crop(axes[1], B, box=(n[0] - 70, n[0] + 190, n[1] - 90, n[1] + 110)); axes[1].set_title("nasal corner (left)", fontsize=10)
-note(axes[1], "correct: crossing of the two\nextended margins, on the LEFT\nborder of the shadow", n, n + (95, -62), CYAN)
-note(axes[1], "wrong: inside the shadow\n(margins cut short)", xy(A, "eye_nasal_corner"), xy(A, "eye_nasal_corner") + (95, 45), YELLOW)
-crop(axes[2], B, box=(t[0] - 190, t[0] + 70, t[1] - 100, t[1] + 100)); axes[2].set_title("temporal corner (right)", fontsize=10)
-note(axes[2], "correct: lower margin extended\nupwards (outer line), apex of the dark\narea right of the reflections", t, t + (-75, -78), CYAN)
-note(axes[2], "wrong: inner line,\nnext to the reflection", xy(A, "eye_temporal_corner"), xy(A, "eye_temporal_corner") + (-95, 70), YELLOW)
-fig.suptitle("How the corners are constructed (5-min video, img015001). Cyan = current definition, yellow = the placement that is easy to get wrong (first definition of 2026-09-20). "
-             "Lines are guides drawn through the labelled points", fontsize=10)
+crop(axes[0], B, pad=60); axes[0].set_title("whole eye", fontsize=10)
+crop(axes[1], B, box=(n[0] - 110, n[0] + 190, n[1] - 90, n[1] + 150)); axes[1].set_title("nasal corner (left)", fontsize=10)
+note(axes[1], "correct (circle): the lower-left margin and the upper\nmargin are continued until they cross", n, n + (60, -62), CYAN)
+note(axes[1], "wrong: where the dark part ends;\nthe margins are cut short", xy(A, "eye_nasal_corner"), xy(A, "eye_nasal_corner") + (105, 60), YELLOW)
+crop(axes[2], B, box=(t[0] - 200, t[0] + 60, t[1] - 110, t[1] + 170)); axes[2].set_title("temporal corner (right)", fontsize=10)
+note(axes[2], "correct (circle): the lower margin continued upwards along\nthe OUTER line, right of the reflections, meets the upper margin", t, t + (-95, -85), CYAN)
+note(axes[2], "wrong: inner line,\nnext to the reflection", xy(A, "eye_temporal_corner"), xy(A, "eye_temporal_corner") + (-105, 75), YELLOW)
+fig.suptitle("How the two corners are constructed (5-min video, img015001), after the sketch of 2026-09-20.\n"
+             "Red solid = eyelid margin traced by eye, red dashed = its continuation, red circle = crossing = corner. "
+             "Cyan = labelled point, yellow cross = first placement of 2026-09-20 (easy to get wrong)", fontsize=10)
 save(fig, "fig7_construction_corners.jpg")
 
 fig, axes = plt.subplots(1, 3, figsize=(19, 6.2), constrained_layout=True)

diff --git a/report/build_report.py b/report/build_report.py
@@ -41,6 +41,9 @@ FIGURES = [
     (V2 / "results/cross_video_matrix.png", "cross_video_matrix.jpg", 2470),
     (V2 / "results/pupil_area_variants.png", "fig_area_variants.jpg", 2000),
     (V2 / "results/blink_area_consistency.png", "fig_blink_area.jpg", 2400),
+    (ROOT / "keypoint_definitions/figures/fig1_all_keypoints.jpg", "kp_all_keypoints.jpg", 2000),
+    (ROOT / "keypoint_definitions/figures/fig8_construction_pupil.jpg", "kp_construction_pupil.jpg", 2000),
+    (ROOT / "keypoint_definitions/figures/fig7_construction_corners.jpg", "kp_construction_corners.jpg", 2000),
 ]
 try:
     import cv2

diff --git a/keypoint_definitions/README.md b/keypoint_definitions/README.md
@@ -69,7 +69,7 @@ is preferred over an exact one.
 
 ![corners](figures/fig2_corners_zoom.jpg)
 
-Construction of the corners: solid = eyelid margin where it is seen, dashed = its extension; the corner is the crossing. Yellow = the placement that is easy to get wrong.
+Construction of the corners (redrawn after the hand sketch used in the discussion of 2026-09-20): solid red = eyelid margin traced on the image, dashed red = its continuation, red circle = the crossing, which is the corner; cyan = the labelled point. Yellow crosses = the first placement of that day, which is also the easy mistake. Nasal corner: the lower-left margin and the upper margin are each continued until they cross. Temporal corner: the lower margin is continued upwards along the outer line and meets the upper margin to the right of the reflections.
 
 ![construction corners](figures/fig7_construction_corners.jpg)
 

diff --git a/keypoint_definitions/README_zh.md b/keypoint_definitions/README_zh.md
@@ -56,7 +56,7 @@
 
 ![眼角](figures/fig2_corners_zoom.jpg)
 
-眼角的作图：实线是看得见的睑缘，虚线是它的延长线，眼角是两条线的交点。黄色是容易标错的画法。
+眼角的作图（照 2026-09-20 讨论时的手绘图重画）：红色实线是沿图像描出的睑缘，红色虚线是它的延长线，红圈是交点，也就是眼角；青色点是实际标注的位置。黄色叉是当天第一次的标法，也是容易标错的位置。左眼角：把左下方的睑缘和上睑缘各自延长到相交。右眼角：下睑缘沿外层那条线向上延伸，在反光右侧与上睑缘相交。
 
 ![construction corners](figures/fig7_construction_corners.jpg)
 
